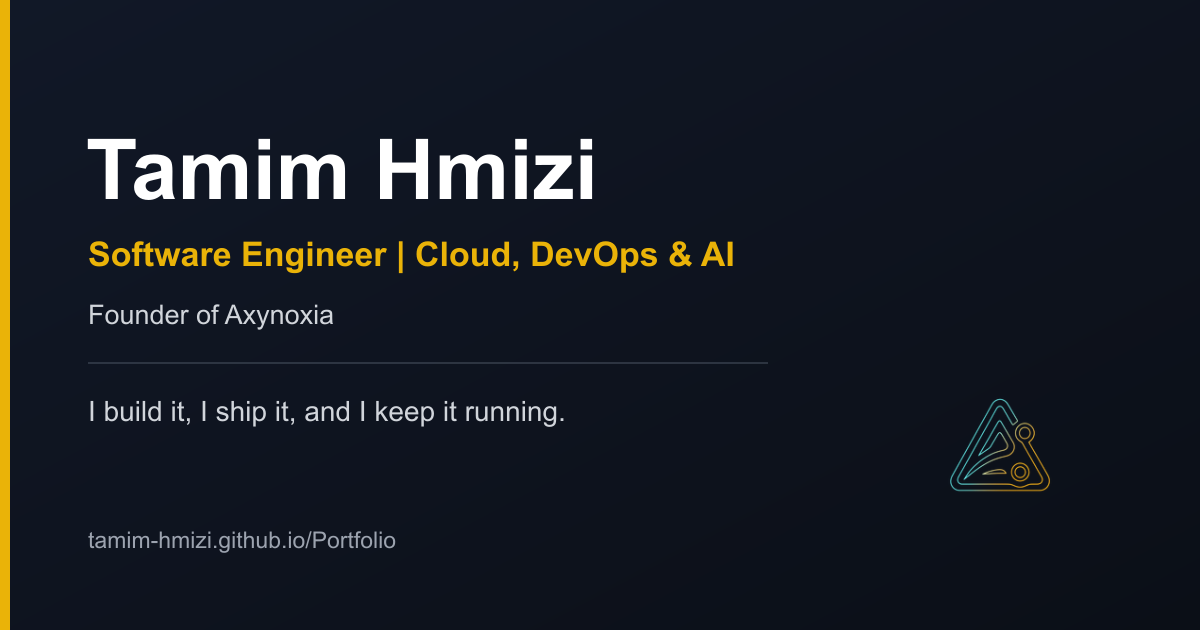
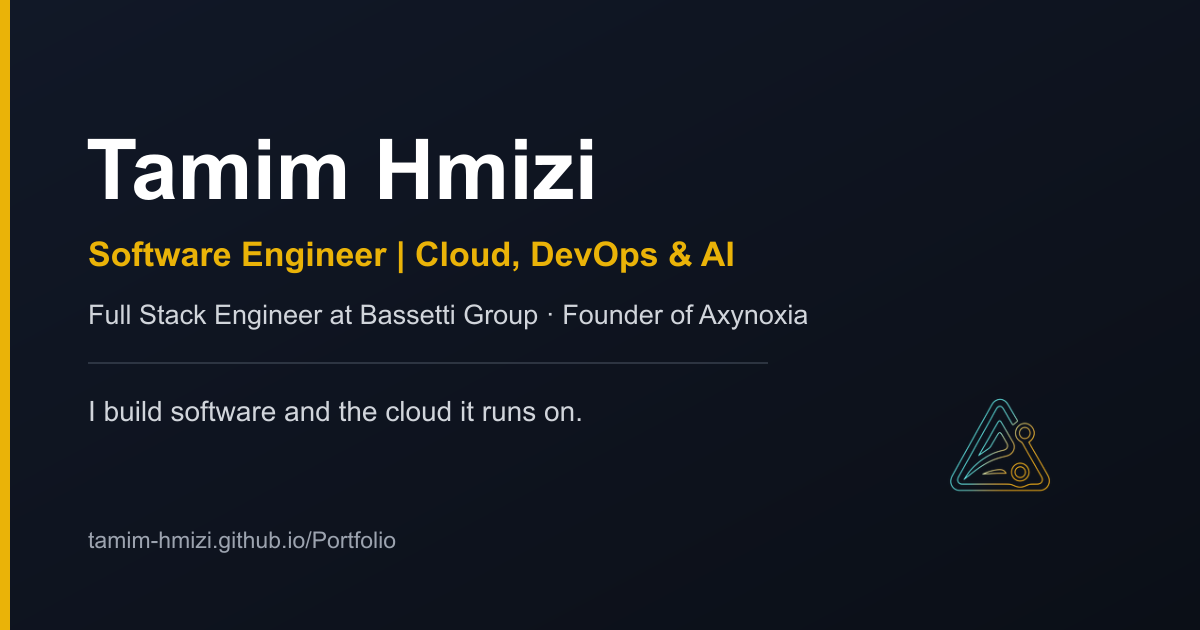
fix: point Digiqora to its live site and align share metadata
digiqoramedia.com does not resolve, so link Digiqora Media to digiqora-media.pages.dev and add its screenshot. Drop the OMHY link from both CVs while its site returns 502. Describe both roles (Bassetti Group and Axynoxia) in the page description, Open Graph, Twitter card, structured data and the share image.

Changed region(s): [[0.1233, 0.6333, 0.4933, 0.6937], [0.0925, 0.4825, 0.6783, 0.5127]]

diff --git a/index.html b/index.html
@@ -9,11 +9,11 @@
     <title>Tamim Hmizi | Software Engineer | Cloud, DevOps &amp; AI</title>
     <meta
       name="description"
-      content="Tamim Hmizi | software engineer and founder of Axynoxia, a software engineering company. Full-stack products, cloud architecture, DevOps and AI automation, designed, built and run in production for client and internal projects."
+      content="Tamim Hmizi, software engineer for full stack, cloud, DevOps and AI. Full Stack Engineer at Bassetti Group and founder of Axynoxia: web and mobile products, cloud infrastructure and automation, built and run in production."
     />
     <meta
       name="keywords"
-      content="Tamim Hmizi, Axynoxia, software engineer, full stack engineer, cloud engineer, DevOps engineer, founder, software company, Kubernetes, Terraform, AWS, Azure, NestJS, React"
+      content="Tamim Hmizi, Axynoxia, Bassetti Group, software engineer, full stack engineer, cloud engineer, DevOps engineer, founder, software company, Kubernetes, Terraform, AWS, Azure, NestJS, React"
     />
     <meta name="author" content="Tamim Hmizi" />
     <meta name="robots" content="index, follow" />
@@ -21,26 +21,26 @@
 
     <!-- Open Graph -->
     <meta property="og:type" content="profile" />
-    <meta property="og:site_name" content="Tamim Hmizi | Axynoxia" />
-    <meta property="og:title" content="Tamim Hmizi | Software Engineer · Founder of Axynoxia" />
+    <meta property="og:site_name" content="Tamim Hmizi" />
+    <meta property="og:title" content="Tamim Hmizi | Software Engineer | Cloud, DevOps &amp; AI" />
     <meta
       property="og:description"
-      content="Software engineer and founder of Axynoxia. Full-stack products, cloud architecture, DevOps and AI automation | designed, built and run in production."
+      content="Full Stack Engineer at Bassetti Group and founder of Axynoxia. Web and mobile products, cloud, DevOps and AI, built and run in production."
     />
     <meta property="og:url" content="https://tamim-hmizi.github.io/Portfolio/" />
     <meta property="og:image" content="https://tamim-hmizi.github.io/Portfolio/og-image.png" />
     <meta property="og:image:width" content="1200" />
     <meta property="og:image:height" content="630" />
-    <meta property="og:image:alt" content="Tamim Hmizi, Founder of Axynoxia, Full-Stack, Cloud and DevOps Engineer" />
+    <meta property="og:image:alt" content="Tamim Hmizi, Software Engineer, Cloud, DevOps and AI. I build software and the cloud it runs on." />
     <meta property="profile:first_name" content="Tamim" />
     <meta property="profile:last_name" content="Hmizi" />
 
     <!-- Twitter -->
     <meta name="twitter:card" content="summary_large_image" />
-    <meta name="twitter:title" content="Tamim Hmizi | Software Engineer · Founder of Axynoxia" />
+    <meta name="twitter:title" content="Tamim Hmizi | Software Engineer | Cloud, DevOps &amp; AI" />
     <meta
       name="twitter:description"
-      content="Software engineer and founder of Axynoxia. Full-stack products, cloud architecture, DevOps and AI automation | designed, built and run in production."
+      content="Full Stack Engineer at Bassetti Group and founder of Axynoxia. Web and mobile products, cloud, DevOps and AI, built and run in production."
     />
     <meta name="twitter:image" content="https://tamim-hmizi.github.io/Portfolio/og-image.png" />
 
@@ -52,12 +52,12 @@
         "name": "Tamim Hmizi",
         "url": "https://tamim-hmizi.github.io/Portfolio/",
         "image": "https://tamim-hmizi.github.io/Portfolio/og-image.png",
-        "jobTitle": "Founder & Software Engineer",
-        "worksFor": {
-          "@type": "Organization",
-          "name": "Axynoxia",
-          "url": "https://axynoxia.com"
-        },
+        "jobTitle": "Software Engineer",
+        "worksFor": [
+          { "@type": "Organization", "name": "Bassetti Group", "url": "https://www.bassetti-group.com/" },
+          { "@type": "Organization", "name": "Axynoxia", "url": "https://www.axynoxia.com" }
+        ],
+        "knowsLanguage": ["ar", "en", "fr"],
         "email": "mailto:tamimhmizi@icloud.com",
         "address": {
           "@type": "PostalAddress",

diff --git a/src/data/projects.ts b/src/data/projects.ts
@@ -195,12 +195,13 @@ export const projects: Project[] = [
   },
   {
     title: "Digiqora Media",
+    image: "projects/digiqora.webp",
     category: "client",
     description:
       "Static Astro site for a content agency producing reels, brand video and photography. Fast on mobile, with click-to-load video, GSAP motion and Cloudflare Pages hosting.",
     tech: [t(SiAstro, "Astro"), t(SiTailwindcss, "Tailwind CSS"), t(SiGreensock, "GSAP"), t(SiCloudflare, "Cloudflare Pages")],
-    url: "https://digiqoramedia.com",
-    domain: "digiqoramedia.com",
+    url: "https://digiqora-media.pages.dev",
+    domain: "digiqora-media.pages.dev",
   },
   {
     title: "Habiter Mieux",

diff --git a/documents/cv-fr.tex b/documents/cv-fr.tex
@@ -93,8 +93,8 @@ Ingénieur logiciel qui construit des produits et le cloud qui les fait tourner.
 \project{\href{https://habiter-mieux.info/}{Habiter Mieux}}{Site de génération de prospects solaires pour le marché français : tunnel de qualification et emails de confirmation automatisés, de la visite au prospect qualifié en moins d'une minute.}
 \project{\href{https://confortex.shop/}{Confortex}}{Thème Shopify sur mesure pour une marque de literie : catalogue, panier et paiement, blog SEO, newsletter et showrooms.}
 \project{\href{https://www.viesublime.tn/}{Vie Sublime}}{Thème Shopify sur mesure pour une marque de mobilier, pensé pour un grand catalogue : collections maison, bureau, école et jardin.}
-\project{\href{https://digiqoramedia.com}{Digiqora Media}}{Site Astro statique pour une agence de contenu : rapide sur mobile, vidéos chargées au clic, animations GSAP, hébergé sur Cloudflare Pages.}
-\project{\href{https://omhyfamily.com/}{OMHY Entertainment}}{Plateforme média pour artistes, albums, casting et actualités. Front React, API Express/MongoDB et livraison Jenkins.}
+\project{\href{https://digiqora-media.pages.dev}{Digiqora Media}}{Site Astro statique pour une agence de contenu : rapide sur mobile, vidéos chargées au clic, animations GSAP, hébergé sur Cloudflare Pages.}
+\project{OMHY Entertainment}{Plateforme média pour artistes, albums, casting et actualités. Front React, API Express/MongoDB et livraison Jenkins.}
 
 \group{Produits Axynoxia}
 \project{\href{https://erp.products.axynoxia.com}{Axynoxia ERP}}{ERP modulaire : opérations, finance, stocks et reporting. NestJS, Prisma, PostgreSQL et Redis avec MFA, RBAC et Argon2 ; Docker Compose et Traefik.}

diff --git a/documents/resume-en.tex b/documents/resume-en.tex
@@ -92,8 +92,8 @@ Software engineer who builds products and the cloud they run on. Full Stack Engi
 \project{\href{https://habiter-mieux.info/}{Habiter Mieux}}{Solar lead generation site for the French market: qualification funnel and automated confirmation emails, from visit to qualified lead in under a minute.}
 \project{\href{https://confortex.shop/}{Confortex}}{Custom Shopify theme for a bedding brand: catalog, cart and payments, SEO blog, newsletter and showroom information.}
 \project{\href{https://www.viesublime.tn/}{Vie Sublime}}{Custom Shopify theme for a furniture brand, built for a large catalog with home, office, school and garden collections.}
-\project{\href{https://digiqoramedia.com}{Digiqora Media}}{Static Astro site for a content agency{}: fast on mobile, click-to-load video, GSAP motion, hosted on Cloudflare Pages.}
-\project{\href{https://omhyfamily.com/}{OMHY Entertainment}}{Media platform for artists, albums, casting and news. React front end, Express/MongoDB API and a Jenkins pipeline.}
+\project{\href{https://digiqora-media.pages.dev}{Digiqora Media}}{Static Astro site for a content agency{}: fast on mobile, click-to-load video, GSAP motion, hosted on Cloudflare Pages.}
+\project{OMHY Entertainment}{Media platform for artists, albums, casting and news. React front end, Express/MongoDB API and a Jenkins pipeline.}
 
 \group{Axynoxia Products}
 \project{\href{https://erp.products.axynoxia.com}{Axynoxia ERP}}{Modular ERP for operations, finance, inventory and reporting. NestJS, Prisma, PostgreSQL and Redis with MFA, RBAC and Argon2; Docker Compose and Traefik.}
